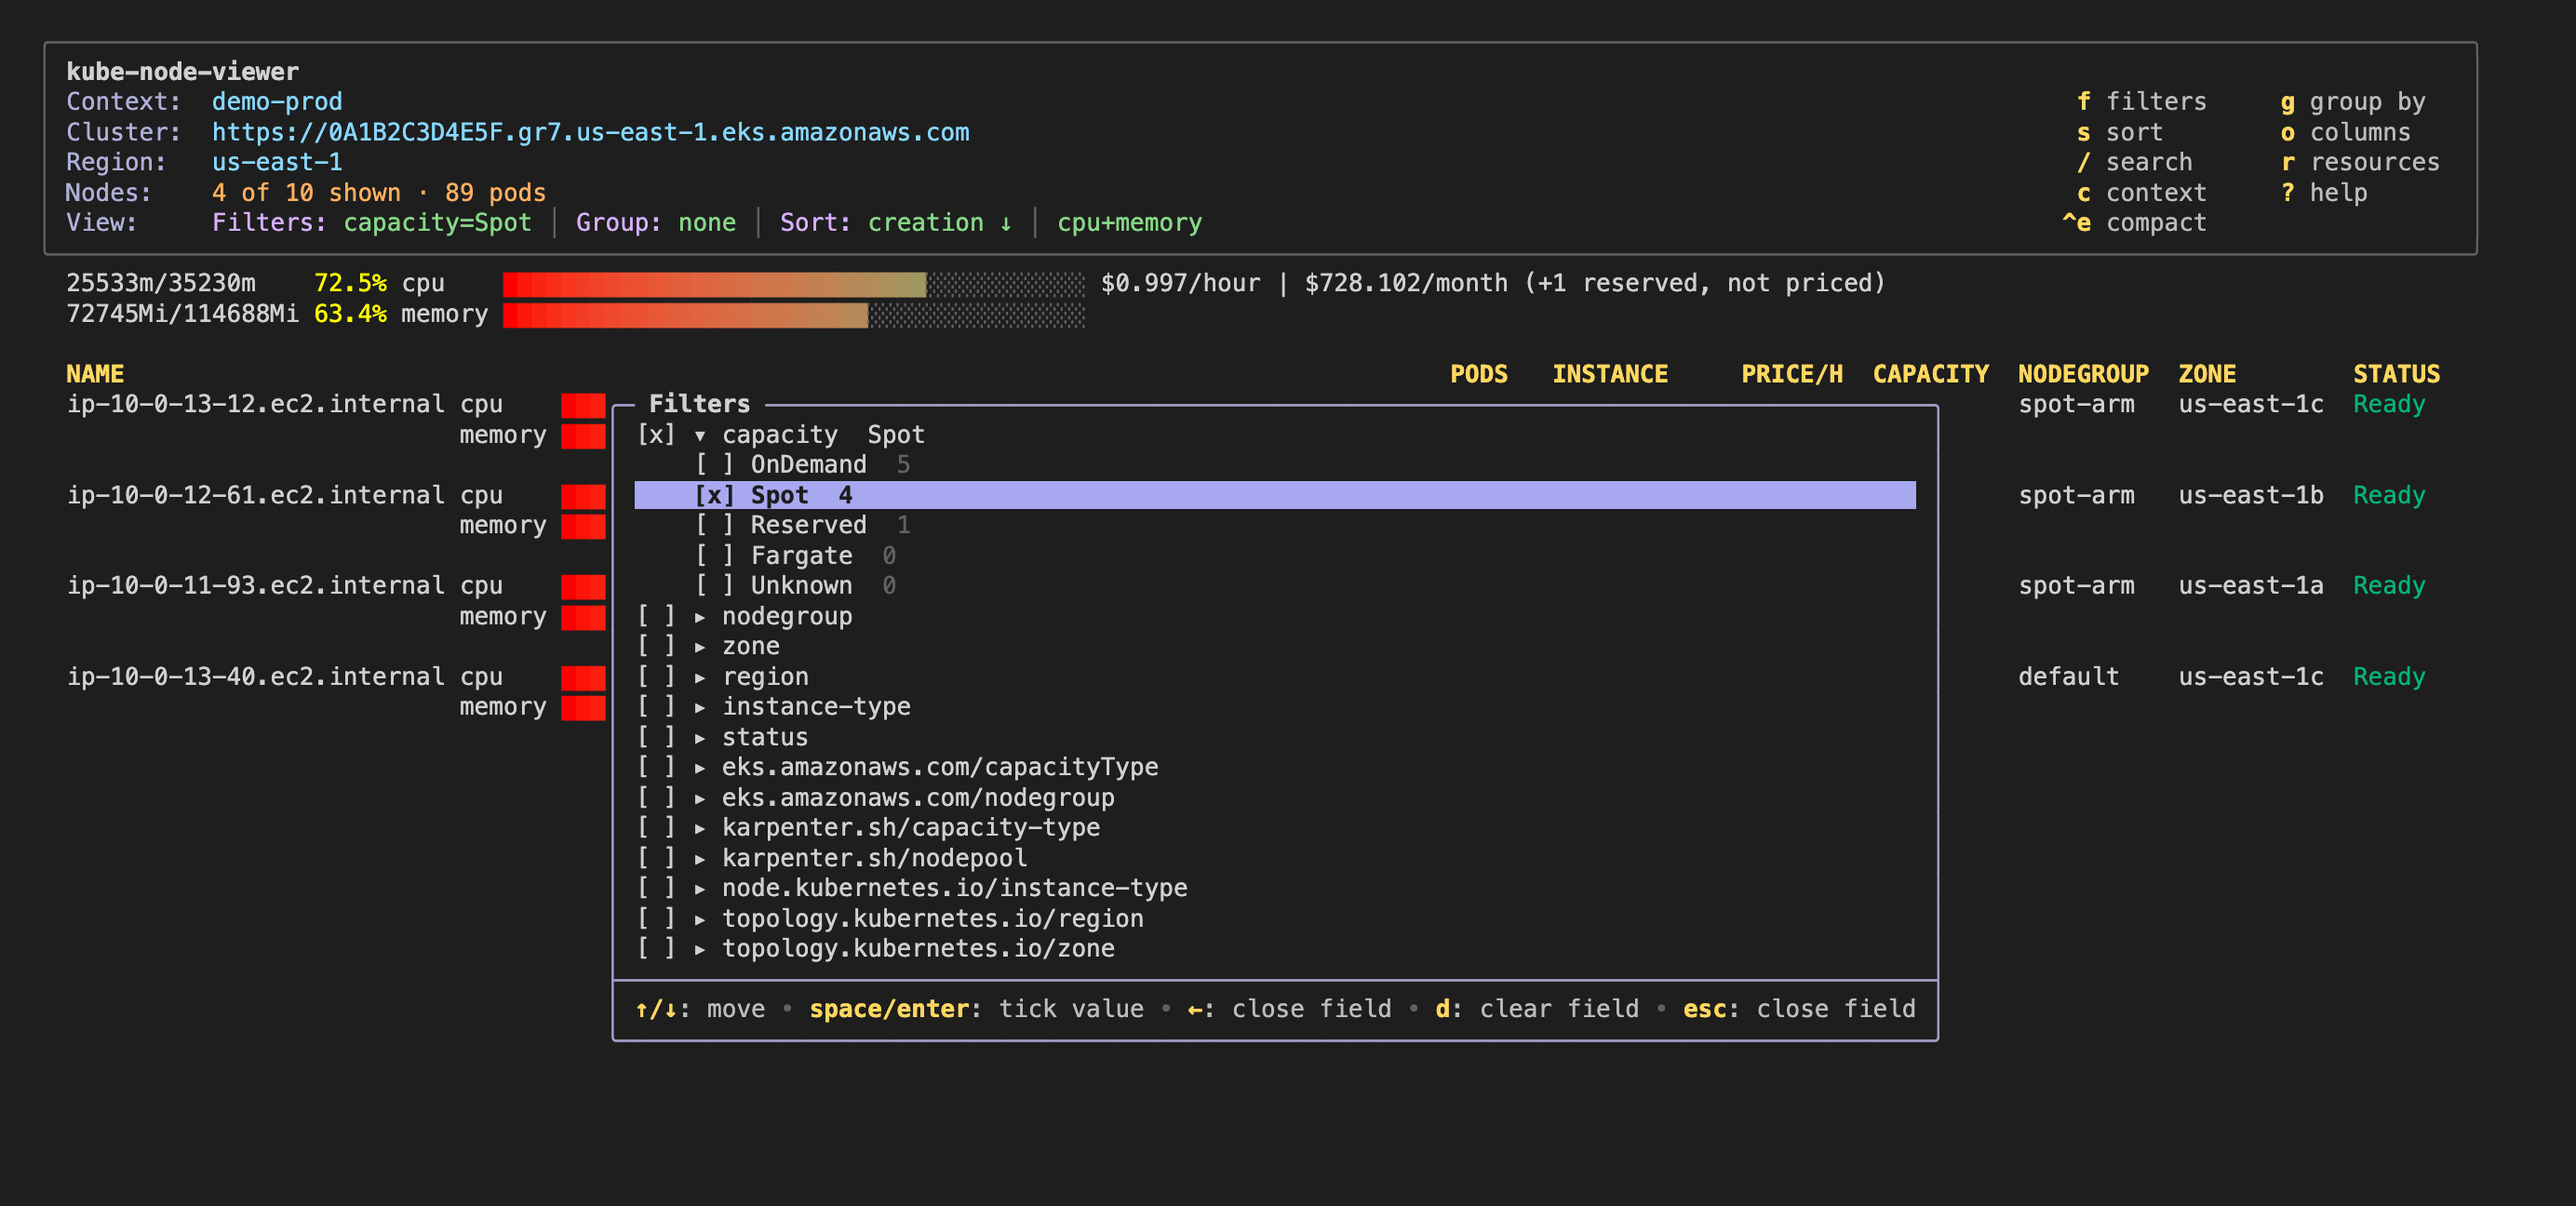
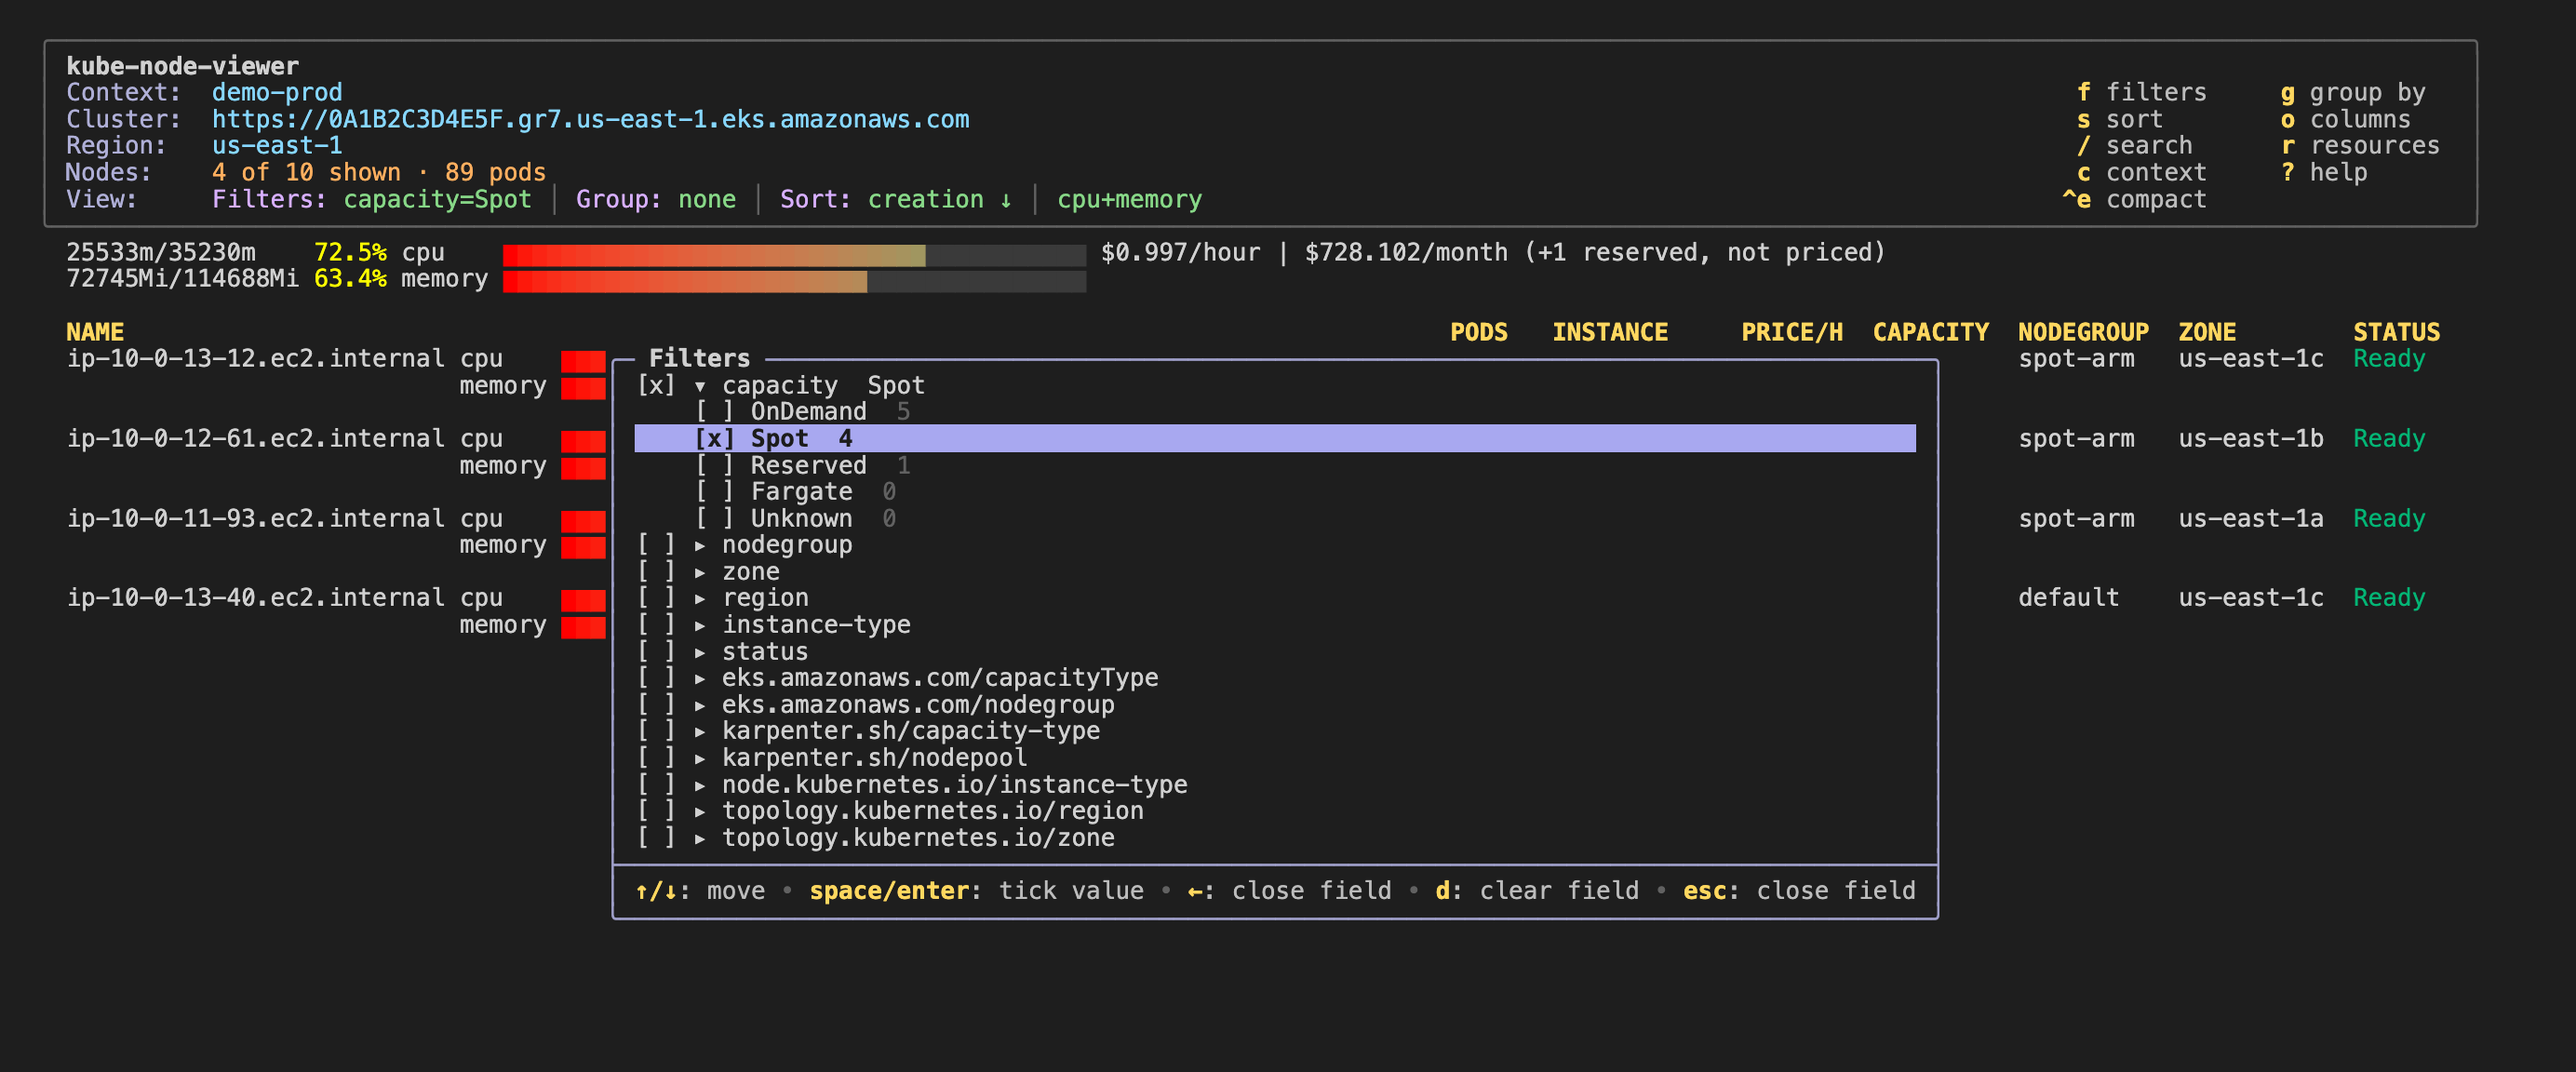
style: a thin gap between stacked usage bars
Bars filled the whole cell, so the cpu and memory bars of a node touched
in the terminal while the README images showed them apart. Bars now use
a 7/8-high block for the filled and the empty part, in dark grey, and the
images are rendered at a terminal-like line height, so both look alike.

diff --git a/pkg/model/uimodel.go b/pkg/model/uimodel.go
@@ -142,6 +142,21 @@ func (u *UIModel) progressBar(fill float64) string {
 	return bar
 }
 
+// barCell fills the usage bars: a block 7/8 high leaves a thin gap above it,
+// so bars stacked on consecutive lines (cpu, memory) read apart. The empty
+// part is the same block in dark grey, keeping the gap along the whole bar.
+const (
+	barCell       = '▇'
+	barEmptyColor = "#3a3a3a"
+)
+
+// newProgress builds the usage bar, red to green.
+func newProgress(style *Style, opts ...progress.Option) progress.Model {
+	p := progress.New(append([]progress.Option{style.gradient, progress.WithFillCharacters(barCell, barCell)}, opts...)...)
+	p.EmptyColor = barEmptyColor
+	return p
+}
+
 // NewUIModel starts with the default view state; SetView replaces it.
 func NewUIModel(style *Style) *UIModel {
 	pager := paginator.New()
@@ -150,9 +165,8 @@ func NewUIModel(style *Style) *UIModel {
 	pager.InactiveDot = inactiveDot
 	cluster := NewCluster()
 	return &UIModel{
-		gen: cluster.Generation(),
-		// red to green
-		progress:  progress.New(style.gradient),
+		gen:       cluster.Generation(),
+		progress:  newProgress(style),
 		cluster:   cluster,
 		paginator: pager,
 		style:     style,

diff --git a/pkg/model/panels_internal_test.go b/pkg/model/panels_internal_test.go
@@ -487,7 +487,7 @@ func TestCollapsedGroupsShowUsageBars(t *testing.T) {
 	bars := 0
 	groups := out[strings.Index(out, "OnDemand"):]
 	for _, line := range strings.Split(groups, "\n") {
-		if strings.Contains(line, "░") && strings.Contains(line, "%") {
+		if strings.Contains(line, "▇") && strings.Contains(line, "%") {
 			bars++
 		}
 	}
@@ -551,9 +551,9 @@ func TestNFoldsOneLevelPerPress(t *testing.T) {
 	if got := look(); got != (screen{nodes: false, sub: true, top: true}) {
 		t.Errorf("details on: %+v\n%s", got, u.View())
 	}
-	if out := u.View(); strings.Contains(out, "└─ default") && strings.Count(out, "░") > 0 {
+	if out := u.View(); strings.Contains(out, "└─ default") && strings.Count(out, "▇") > 0 {
 		for _, line := range strings.Split(out, "\n") {
-			if strings.Contains(line, "└─ default") && strings.Contains(line, "░") {
+			if strings.Contains(line, "└─ default") && strings.Contains(line, "▇") {
 				t.Errorf("a detail row has a bar: %q", line)
 			}
 		}

diff --git a/pkg/model/screenshots_test.go b/pkg/model/screenshots_test.go
@@ -66,7 +66,7 @@ func (demoSwitcher) Switch(string) (Session, error) { return Session{}, fmt.Erro
 func demoUI(t *testing.T) *UIModel {
 	u := newTestUI(t)
 	// the bar detects colours from the terminal, and tests have none
-	u.progress = progress.New(u.style.gradient, progress.WithColorProfile(termenv.TrueColor))
+	u.progress = newProgress(u.style, progress.WithColorProfile(termenv.TrueColor))
 	u.SetClusterInfo(ClusterInfo{Context: "demo-prod", Server: "https://0A1B2C3D4E5F.gr7.us-east-1.eks.amazonaws.com", Region: "us-east-1"})
 	u.SetSwitcher(demoSwitcher{})
 	for i, d := range demoNodes {

diff --git a/scripts/screenshots/ansi2html.py b/scripts/screenshots/ansi2html.py
@@ -83,6 +83,6 @@ if len(sys.argv) > 3:
 open(dst, "w", encoding="utf-8").write("""<!doctype html><meta charset="utf-8">
 <style>
 html,body{margin:0;background:%s}
-pre{margin:0;padding:14px 20px 18px;color:%s;font:13px/1.25 Menlo,"SF Mono",monospace;white-space:pre}
+pre{margin:0;padding:14px 20px 18px;color:%s;font:13px/1.1 Menlo,"SF Mono",monospace;white-space:pre}
 .cap{padding:9px 20px;background:#2a2a40;color:#ffd75f;font:bold 14px Menlo,"SF Mono",monospace}
 </style>%s<pre>%s</pre>""" % (BG, FG, caption, body))

diff --git a/specs/interactive-tui/requirements.md b/specs/interactive-tui/requirements.md
@@ -194,6 +194,11 @@ hidden at once.
 > (under-used is the costly case). With stacked resources a blank line
 > separates nodes. The node list gets no frame of its own.
 
+> **Added 2026-11-02.** Usage bars use a 7/8-high block for both the filled
+> and the empty part (dark grey), so bars stacked on consecutive lines keep a
+> thin gap in the terminal, as in the README images; those are rendered at a
+> terminal-like line height.
+
 **R14** WHEN the screen is smaller than the content THEN the system SHALL
 paginate by lines, repeat the group path on a page that continues a group
 (`default › us-east-1a (cont.)`), and drop lowest-priority columns first,
